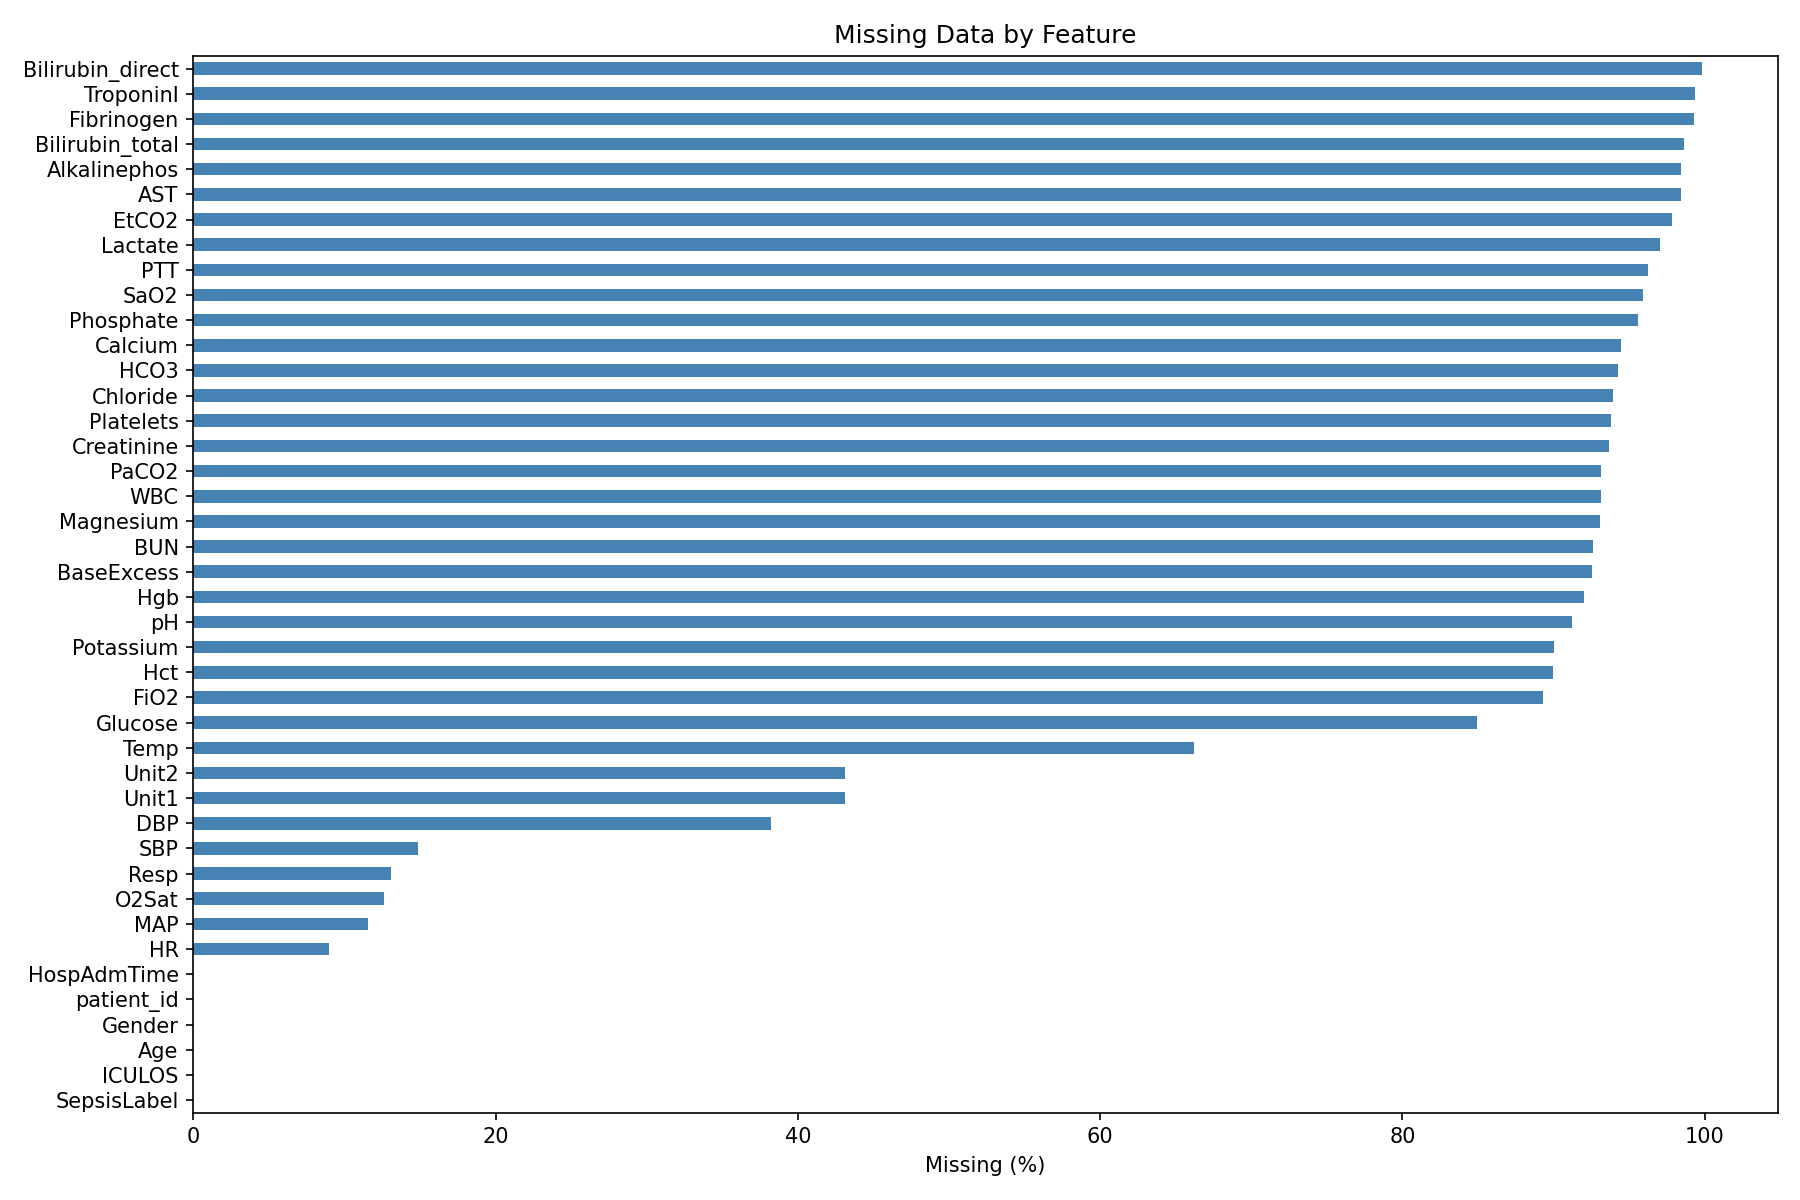
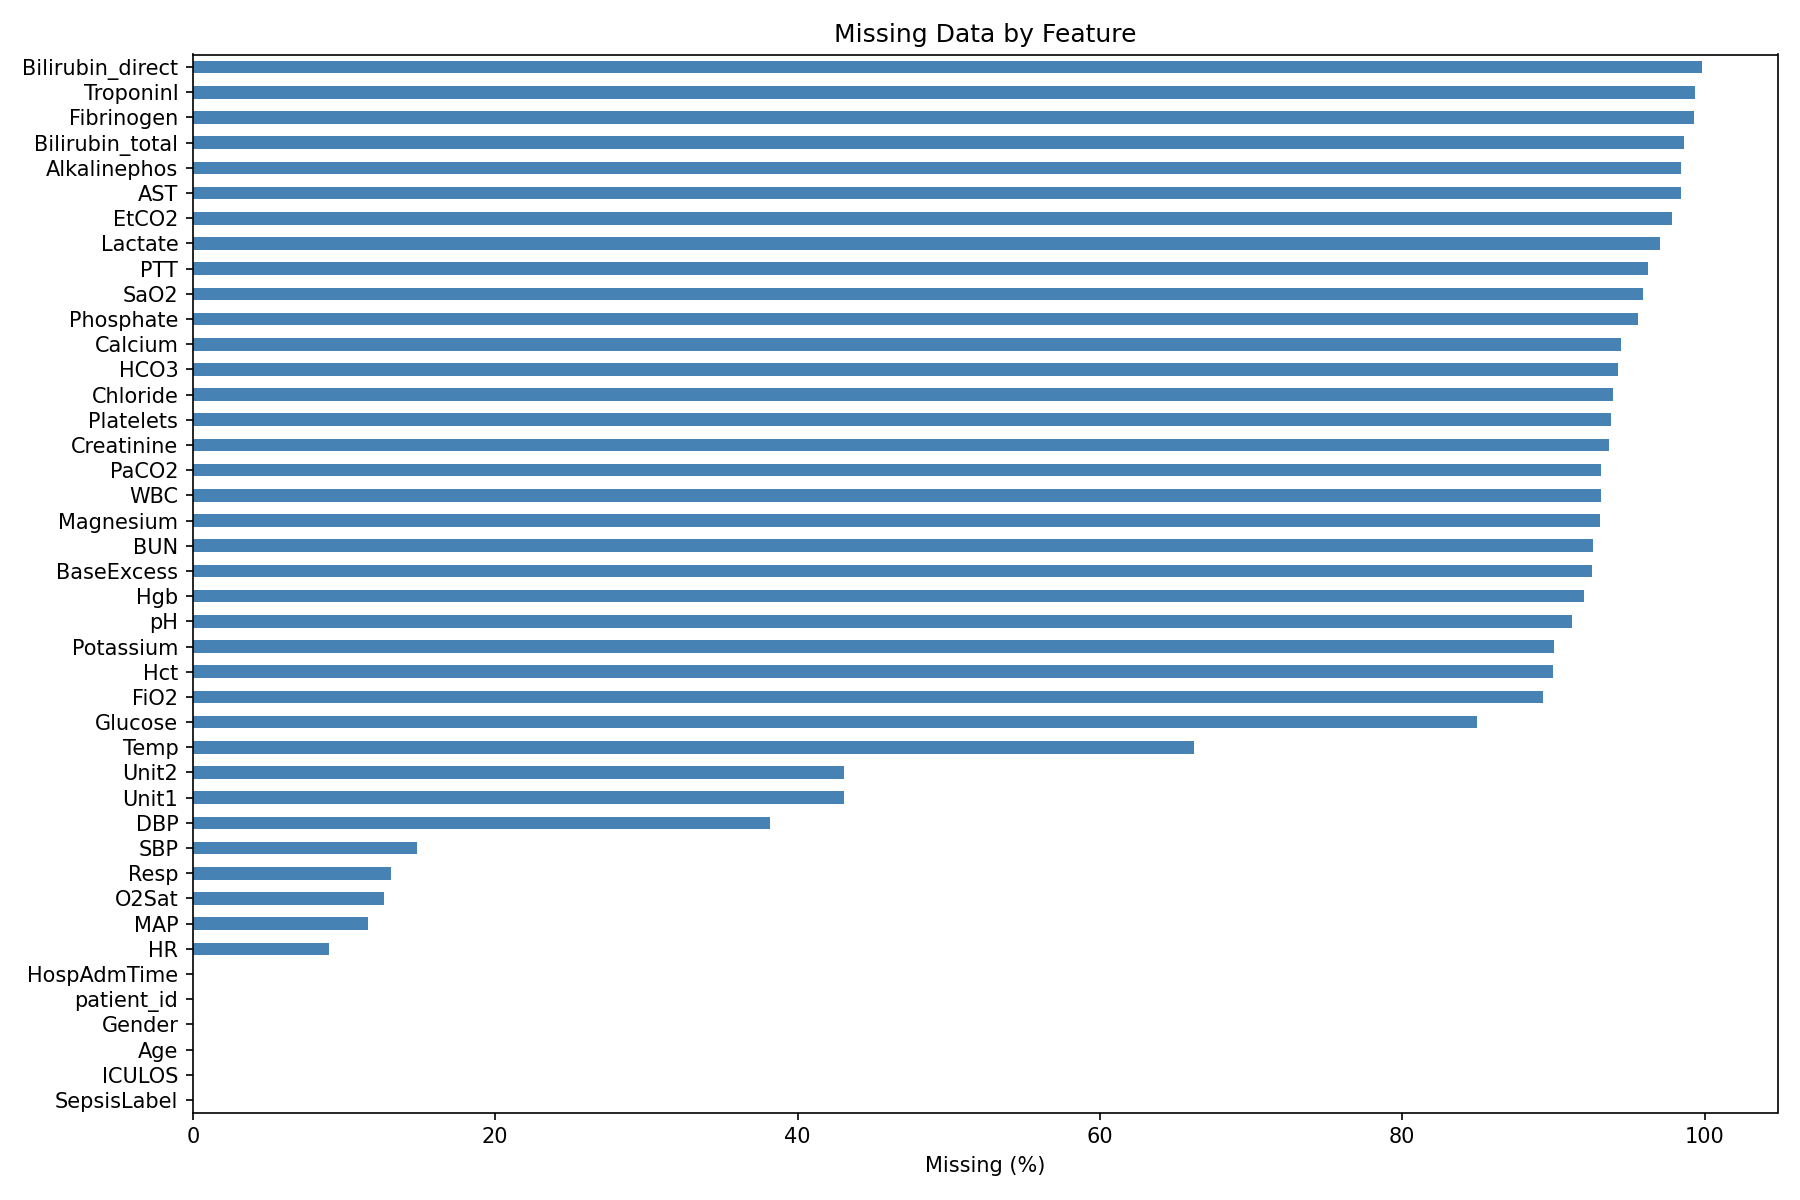
Expand EDA: correlation, sepsis comparisons, demographics, MAP distribution

diff --git a/eda.py b/eda.py
@@ -2,6 +2,7 @@ import os
 import pandas as pd
 import matplotlib.pyplot as plt
 import numpy as np
+import seaborn as sns
 
 # ──────────────────────────────────────────────
 # 1. Load and merge all .psv files into one CSV
@@ -96,7 +97,135 @@ def run_eda(df):
     fig.savefig(os.path.join(DATA_DIR, "plots", "vital_distributions.png"), dpi=150)
     plt.close(fig)
 
-    # --- 2d. Basic descriptive stats ---
+    # --- 2d. MAP distribution (regression target) ---
+    print("\n===== MAP Distribution (Regression Target) =====")
+    map_vals = df["MAP"].dropna()
+    print(f"Count: {len(map_vals)}, Mean: {map_vals.mean():.1f}, Std: {map_vals.std():.1f}")
+    print(f"Min: {map_vals.min():.1f}, Max: {map_vals.max():.1f}")
+
+    fig, ax = plt.subplots(figsize=(8, 5))
+    ax.hist(map_vals, bins=80, color="steelblue", edgecolor="white")
+    ax.axvline(map_vals.mean(), color="red", linestyle="--", label=f"Mean = {map_vals.mean():.1f}")
+    ax.set_xlabel("MAP (mm Hg)")
+    ax.set_ylabel("Count")
+    ax.set_title("MAP Distribution (Regression Target)")
+    ax.legend()
+    plt.tight_layout()
+    fig.savefig(os.path.join(DATA_DIR, "plots", "map_distribution.png"), dpi=150)
+    plt.close(fig)
+
+    # --- 2e. Correlation heatmap (features vs. targets) ---
+    numeric_cols = df.select_dtypes(include=[np.number]).columns.tolist()
+    numeric_cols = [c for c in numeric_cols if c != "patient_id"]
+    corr = df[numeric_cols].corr()
+
+    fig, ax = plt.subplots(figsize=(18, 15))
+    sns.heatmap(corr, annot=False, cmap="coolwarm", center=0, ax=ax,
+                xticklabels=True, yticklabels=True, linewidths=0.3)
+    ax.set_title("Feature Correlation Heatmap")
+    plt.tight_layout()
+    fig.savefig(os.path.join(DATA_DIR, "plots", "correlation_heatmap.png"), dpi=150)
+    plt.close(fig)
+
+    # Print correlations with targets
+    print("\n===== Correlations with MAP =====")
+    map_corr = corr["MAP"].drop(["MAP", "SepsisLabel"], errors="ignore").sort_values(key=abs, ascending=False)
+    print(map_corr.to_string())
+
+    print("\n===== Correlations with SepsisLabel =====")
+    sep_corr = corr["SepsisLabel"].drop(["MAP", "SepsisLabel"], errors="ignore").sort_values(key=abs, ascending=False)
+    print(sep_corr.to_string())
+
+    # Bar chart of correlations with targets
+    fig, axes = plt.subplots(1, 2, figsize=(16, 8))
+    map_corr.sort_values().plot.barh(ax=axes[0], color="steelblue")
+    axes[0].set_title("Feature Correlation with MAP")
+    axes[0].set_xlabel("Pearson r")
+    sep_corr.sort_values().plot.barh(ax=axes[1], color="#dd8452")
+    axes[1].set_title("Feature Correlation with SepsisLabel")
+    axes[1].set_xlabel("Pearson r")
+    plt.tight_layout()
+    fig.savefig(os.path.join(DATA_DIR, "plots", "target_correlations.png"), dpi=150)
+    plt.close(fig)
+
+    # --- 2f. Sepsis vs Non-Sepsis feature distributions ---
+    sepsis_df = df[df["SepsisLabel"] == 1]
+    no_sepsis_df = df[df["SepsisLabel"] == 0]
+
+    # Vitals comparison
+    compare_vitals = ["HR", "O2Sat", "Temp", "Resp"]
+    fig, axes = plt.subplots(1, len(compare_vitals), figsize=(18, 4))
+    for ax, col in zip(axes, compare_vitals):
+        ax.hist(no_sepsis_df[col].dropna(), bins=50, alpha=0.6, color="#4c72b0", label="No Sepsis", density=True)
+        ax.hist(sepsis_df[col].dropna(), bins=50, alpha=0.6, color="#dd8452", label="Sepsis", density=True)
+        ax.set_title(col)
+        ax.set_xlabel(col)
+        ax.legend(fontsize=8)
+    fig.suptitle("Vital Signs: Sepsis vs Non-Sepsis (Normalized)")
+    plt.tight_layout(rect=[0, 0, 1, 0.95])
+    fig.savefig(os.path.join(DATA_DIR, "plots", "vitals_sepsis_comparison.png"), dpi=150)
+    plt.close(fig)
+
+    # Key lab values comparison
+    compare_labs = ["Creatinine", "BUN", "Lactate", "WBC", "Glucose", "Platelets"]
+    fig, axes = plt.subplots(2, 3, figsize=(16, 8))
+    for ax, col in zip(axes.flat, compare_labs):
+        vals_no = no_sepsis_df[col].dropna()
+        vals_yes = sepsis_df[col].dropna()
+        if len(vals_no) > 0 and len(vals_yes) > 0:
+            ax.hist(vals_no, bins=50, alpha=0.6, color="#4c72b0", label="No Sepsis", density=True)
+            ax.hist(vals_yes, bins=50, alpha=0.6, color="#dd8452", label="Sepsis", density=True)
+            ax.legend(fontsize=8)
+        ax.set_title(col)
+        ax.set_xlabel(col)
+    fig.suptitle("Lab Values: Sepsis vs Non-Sepsis (Normalized)")
+    plt.tight_layout(rect=[0, 0, 1, 0.95])
+    fig.savefig(os.path.join(DATA_DIR, "plots", "labs_sepsis_comparison.png"), dpi=150)
+    plt.close(fig)
+
+    # --- 2g. Patient-level sepsis prevalence ---
+    patient_sepsis = df.groupby("patient_id")["SepsisLabel"].max()
+    pat_counts = patient_sepsis.value_counts().sort_index()
+    print(f"\n===== Patient-Level Sepsis Prevalence =====")
+    print(f"Sepsis patients:     {pat_counts.get(1, 0)}")
+    print(f"Non-sepsis patients: {pat_counts.get(0, 0)}")
+    print(f"Prevalence: {pat_counts.get(1, 0) / len(patient_sepsis) * 100:.1f}%")
+
+    fig, ax = plt.subplots(figsize=(5, 4))
+    pat_counts.plot.bar(ax=ax, color=["#4c72b0", "#dd8452"])
+    ax.set_xticklabels(["No Sepsis (0)", "Sepsis (1)"], rotation=0)
+    ax.set_ylabel("Number of Patients")
+    ax.set_title("Patient-Level Sepsis Prevalence")
+    for i, v in enumerate(pat_counts):
+        ax.text(i, v + len(patient_sepsis) * 0.005, f"{v:,}", ha="center", fontsize=9)
+    plt.tight_layout()
+    fig.savefig(os.path.join(DATA_DIR, "plots", "patient_sepsis_prevalence.png"), dpi=150)
+    plt.close(fig)
+
+    # --- 2h. Demographics ---
+    # Age distribution by sepsis status
+    fig, axes = plt.subplots(1, 2, figsize=(12, 5))
+    axes[0].hist(no_sepsis_df["Age"].dropna(), bins=40, alpha=0.6, color="#4c72b0", label="No Sepsis", density=True)
+    axes[0].hist(sepsis_df["Age"].dropna(), bins=40, alpha=0.6, color="#dd8452", label="Sepsis", density=True)
+    axes[0].set_xlabel("Age (years)")
+    axes[0].set_ylabel("Density")
+    axes[0].set_title("Age Distribution by Sepsis Status")
+    axes[0].legend()
+
+    # Gender split and sepsis rate
+    gender_sepsis = df.groupby("Gender")["SepsisLabel"].mean() * 100
+    gender_sepsis.index = ["Female", "Male"]
+    gender_sepsis.plot.bar(ax=axes[1], color=["#c44e52", "#4c72b0"])
+    axes[1].set_ylabel("Sepsis Prevalence (%)")
+    axes[1].set_title("Sepsis Prevalence by Gender")
+    axes[1].set_xticklabels(["Female", "Male"], rotation=0)
+    for i, v in enumerate(gender_sepsis):
+        axes[1].text(i, v + 0.05, f"{v:.2f}%", ha="center", fontsize=9)
+    plt.tight_layout()
+    fig.savefig(os.path.join(DATA_DIR, "plots", "demographics.png"), dpi=150)
+    plt.close(fig)
+
+    # --- 2i. Basic descriptive stats ---
     print("\n===== Descriptive Statistics =====")
     print(df.describe().to_string())
 